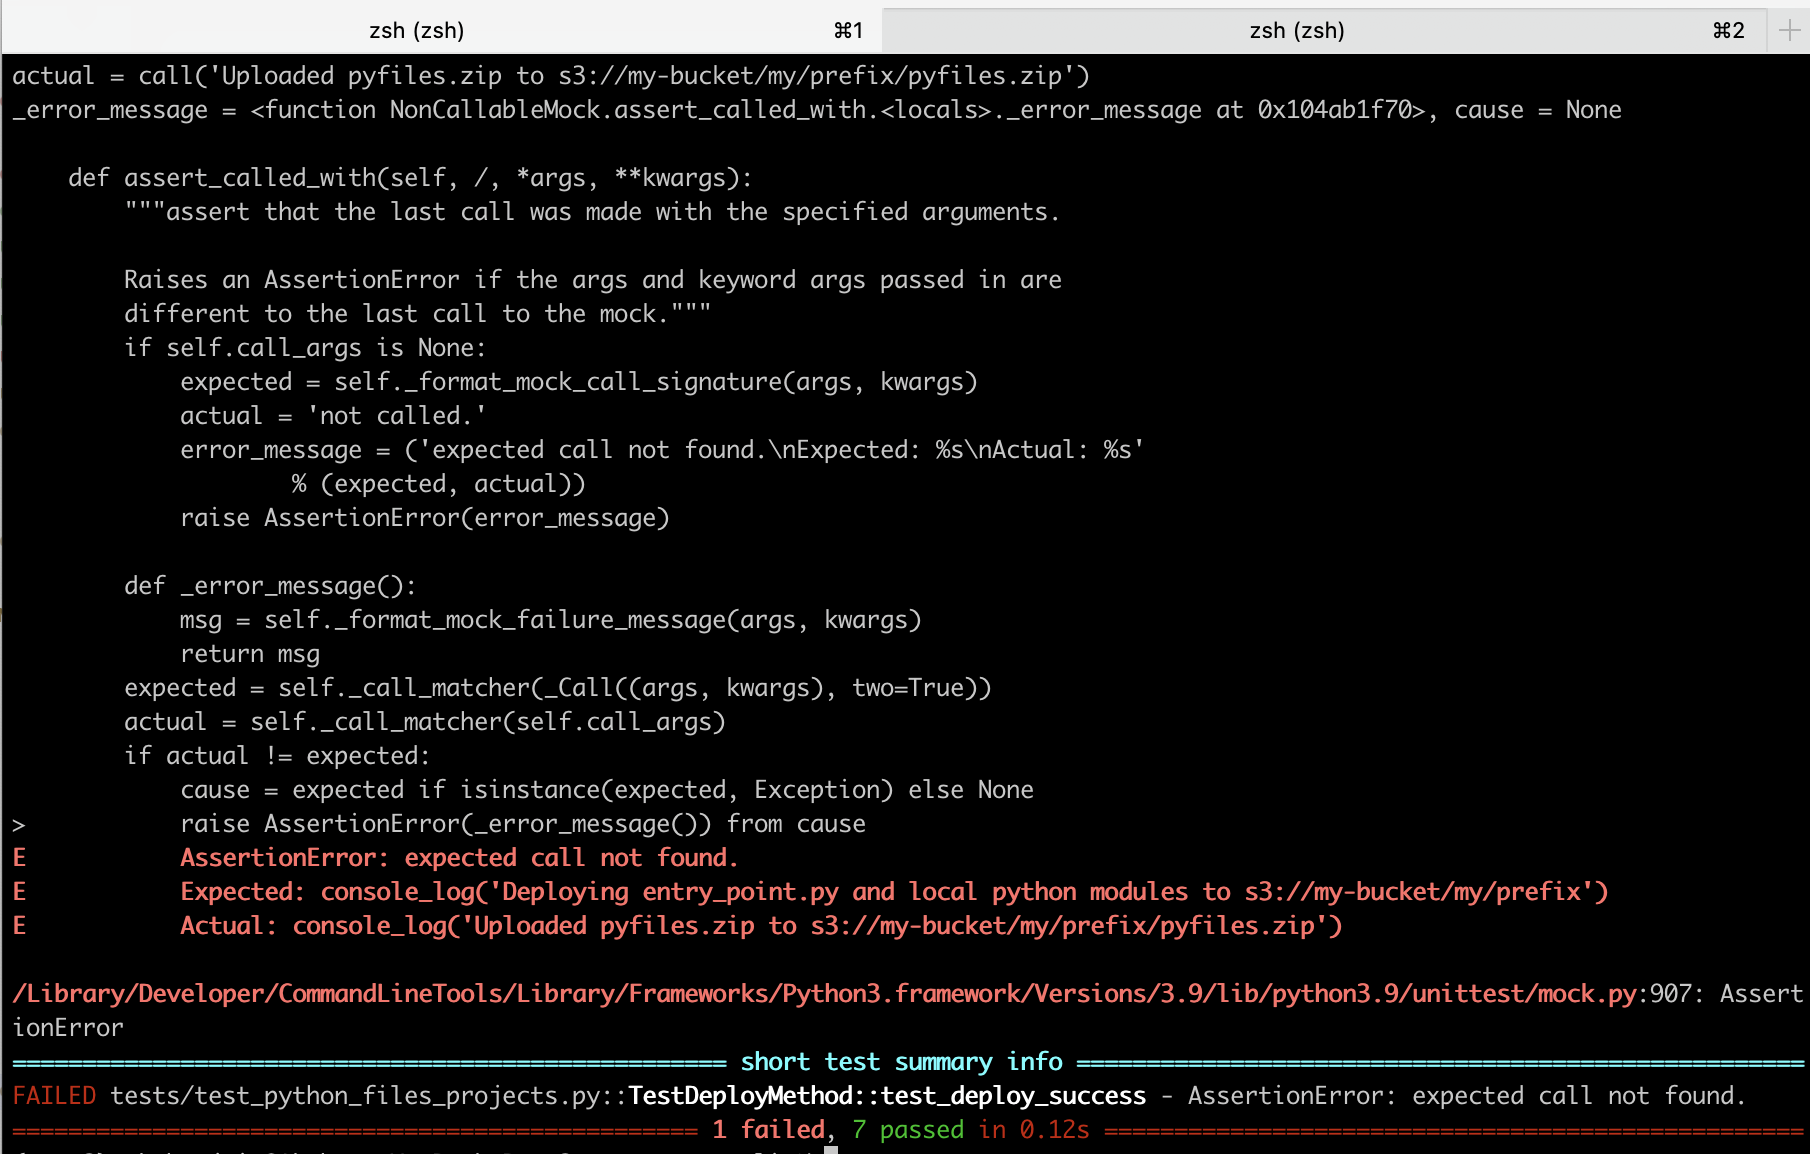
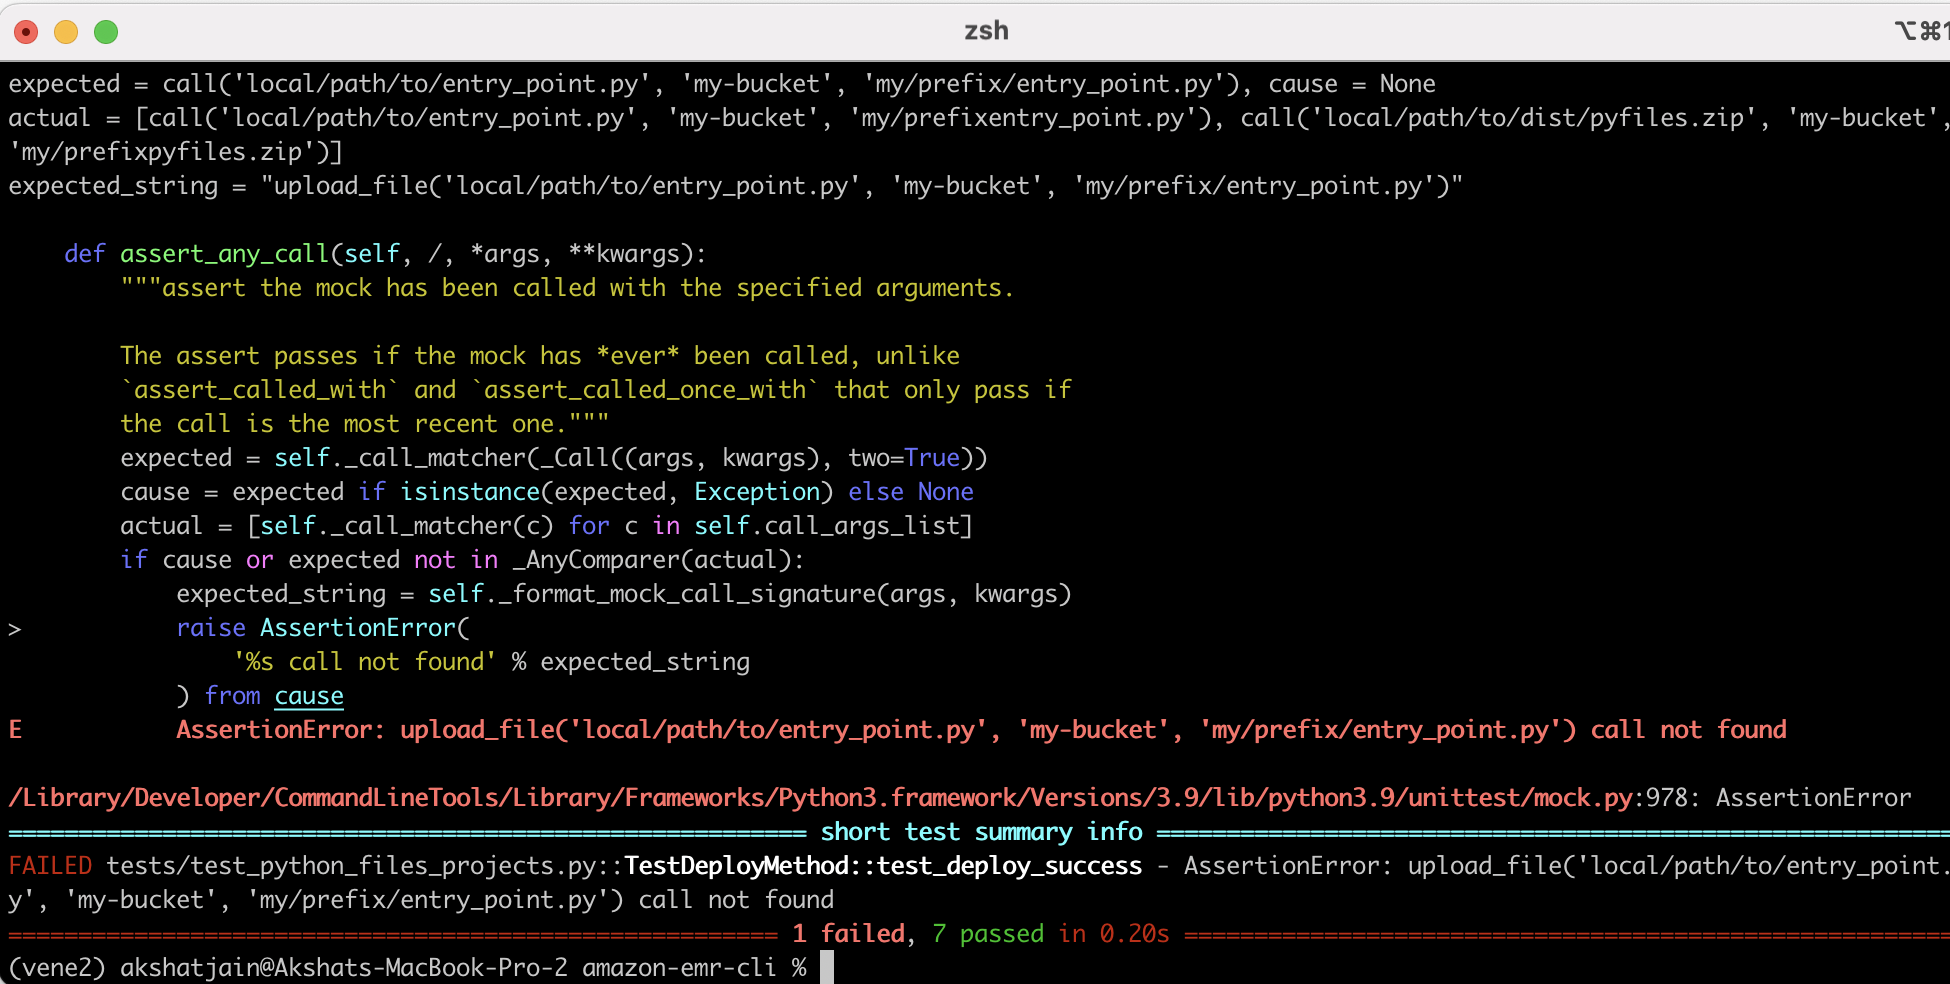
fixed feature and tests

Changed region(s): [[0.0, 0.0, 1.0, 1.0], [0.9282, 0.0915, 0.9901, 0.1524]]

diff --git a/amazon-emr-cli/features/feature_2/with_flawed_solution.py b/amazon-emr-cli/features/feature_2/with_flawed_solution.py
@@ -1,23 +1,34 @@
 ```
     def deploy(self, s3_code_uri: str) -> str:
-            console_log(f"Deploying to {s3_code_uri}")
-            bucket, prefix = parse_bucket_uri(s3_code_uri)
+        """
+        Upload the local entry point script and associated Python modules to an S3 bucket.
 
-            s3 = boto3.client("s3")
+        This method takes a specified S3 URI, uploads the entry point script and
+        a zip file containing local Python modules to the corresponding S3 bucket and
+        returns the S3 path of the uploaded entry point script.
 
-            # Upload entry point
-            s3_entrypoint_uri = os.path.join(prefix, self.entry_point_path)
-            s3.upload_file(self.entry_point_path, bucket, s3_entrypoint_uri)
-            console_log(
-                f"Uploaded entrypoint {self.entry_point_path} to s3://{bucket}/{s3_entrypoint_uri}"
-            )
+        The filename of the entry point script is derived from the entry point path
+        specified in the instance variable.
 
-            # Upload zip
-            local_zip_path = f"{self.dist_dir}/pyfiles.zip"
-            s3_zip_uri = os.path.join(prefix, "pyfiles.zip")
-            s3.upload_file(local_zip_path, bucket, s3_zip_uri)
-            console_log(f"Uploaded pyfiles.zip to s3://{bucket}/{s3_zip_uri}")
+        Parameters:
+            s3_code_uri (str): The S3 URI where the code will be uploaded.
+                                It should be in the format 's3://bucket-name/prefix/'.
 
-            self.s3_uri_base = s3_code_uri
-            return self.entrypoint_uri()
+        Returns:
+            str: The S3 path of the uploaded entry point script.
+                 It should formatted as 's3://bucket-name/prefix/filename'.
+        """
+        bucket, prefix = parse_bucket_uri(s3_code_uri)
+        s3_client = boto3.client("s3")
+
+        console_log(f"Uploading code to s3://{bucket}/{prefix}")
+        s3_client.upload_file(
+            self.entry_point_path,
+            bucket,
+            f"{prefix}{os.path.basename(self.entry_point_path)}",
+        )
+        s3_client.upload_file(
+            f"{self.dist_dir}/pyfiles.zip", bucket, f"{prefix}pyfiles.zip"
+        )
+        return f"s3://{bucket}/{prefix}{os.path.basename(self.entry_point_path)}"
 ```

diff --git a/amazon-emr-cli/features/feature_2/with_hole.py b/amazon-emr-cli/features/feature_2/with_hole.py
@@ -29,21 +29,22 @@ class PythonFilesProject(DeploymentPackage):
                 zf.write(file, relpath)
 
     """
-    Create a function `deploy` that uploads the local entry point code and related Python modules to an Amazon S3 bucket.
+    Create a function `deploy` which uploads the local entry point script and associated Python modules to an S3 bucket.
 
-    This function takes an S3 URI and copies the specified entry point file along with
-    a ZIP file of local Python modules to the designated S3 location.
+    This method takes a specified S3 URI, uploads the entry point script and 
+    a zip file containing local Python modules to the corresponding S3 bucket and 
+    returns the S3 path of the uploaded entry point script.
+    
+    The filename of the entry point script is derived from the entry point path 
+    specified in the instance variable. 
 
     Parameters:
-    s3_code_uri : str
-        The S3 URI where the code will be uploaded, formatted as 
-        's3://bucket-name/prefix'.
+        s3_code_uri (str): The S3 URI where the code will be uploaded. 
+                            It should be in the format 's3://bucket-name/prefix/'.
 
     Returns:
-    str
-        The S3 URI of the uploaded entry point, formatted as 
-        's3://bucket-name/prefix/filename'.
-
+        str: The S3 path of the uploaded entry point script.
+                It should formatted as 's3://bucket-name/prefix/filename'.
     """
     $PlaceHolder$
 

diff --git a/amazon-emr-cli/tests/test_python_files_projects.py b/amazon-emr-cli/tests/test_python_files_projects.py
@@ -34,7 +34,6 @@ class TestDeployMethod(unittest.TestCase):
         result = self.instance.deploy(s3_code_uri)
 
         # Assert
-        mock_console_log.assert_called_with('Deploying entry_point.py and local python modules to s3://my-bucket/my/prefix')
         mock_s3_client.upload_file.assert_any_call('local/path/to/entry_point.py', 'my-bucket', 'my/prefix/entry_point.py')
         mock_s3_client.upload_file.assert_any_call('local/path/to/dist/pyfiles.zip', 'my-bucket', 'my/prefix/pyfiles.zip')
         self.assertEqual(result, 's3://my-bucket/my/prefix/entry_point.py')

diff --git a/amazon-emr-cli/features/feature_2/with_golden_solution.py b/amazon-emr-cli/features/feature_2/with_golden_solution.py
@@ -1,5 +1,4 @@
-```
-    
+``` 
     def deploy(self, s3_code_uri: str) -> str:
         """
         Copies local code to S3 and returns the path to the uploaded entrypoint
